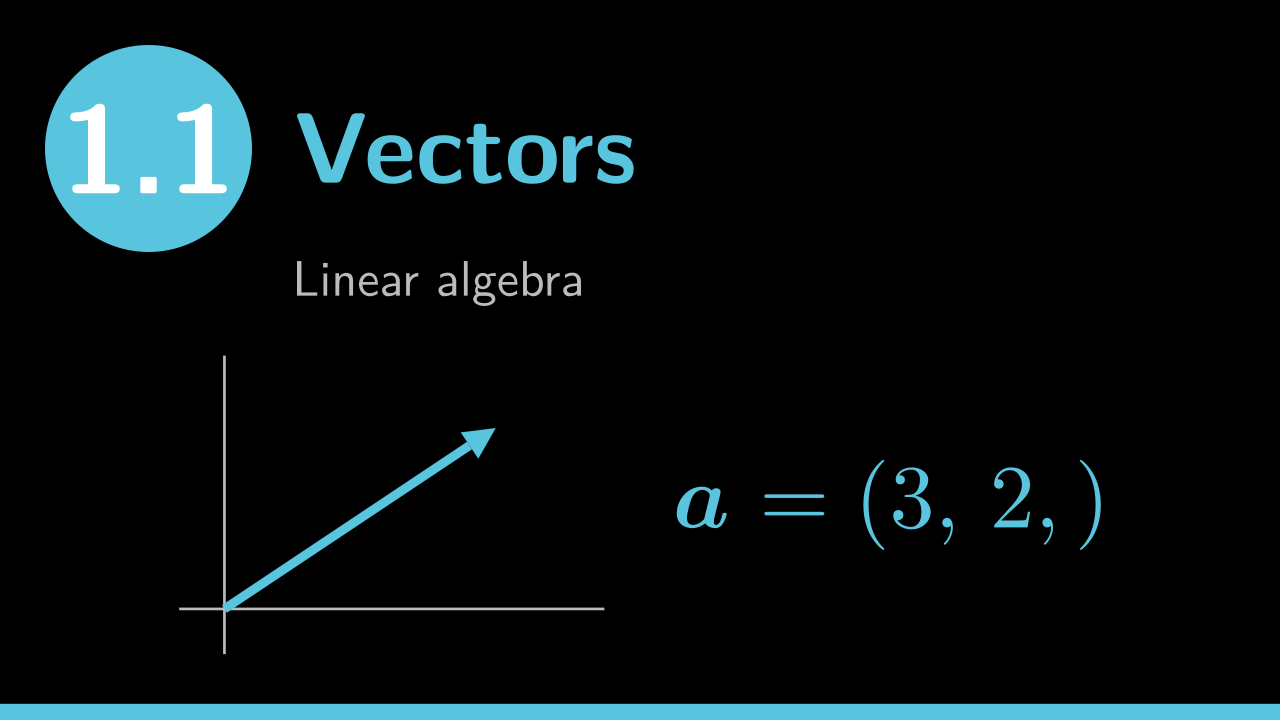
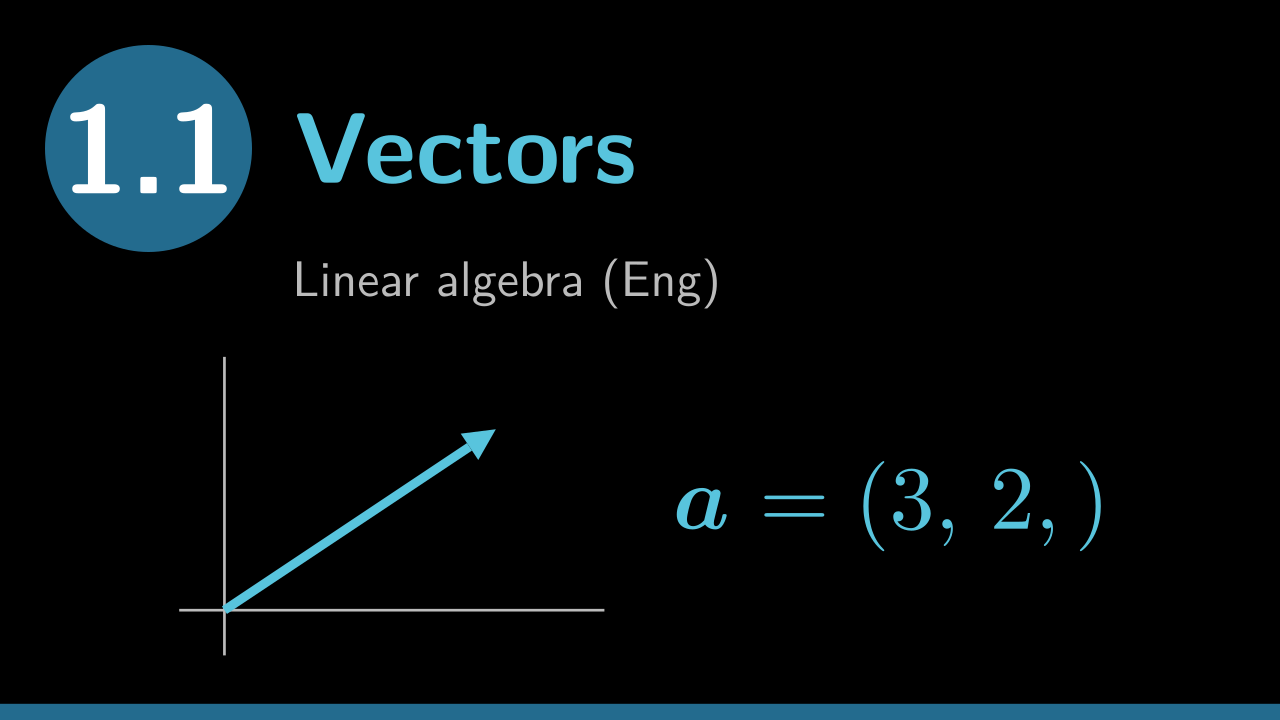
Miniaturas con el idioma de un vistazo; descartes a descartes/; limpieza
- Miniaturas: en español disco claro con número oscuro, en inglés disco y franja
  BLUE_E con número blanco, y «(Esp)»/«(Eng)» tras el nombre de la asignatura.
  Las 24 regeneradas y las 19 publicadas puestas en YouTube.
- ZZ_Basura_*.org movidos a descartes/ y menciones actualizadas.
- CLAUDE.md: deduplicación de las cachés de voz repetida el 2026-11-05.

Claude-Session: https://claude.ai/code/session_01PdGgPEm6oxM5YWAzx29SLa

diff --git a/lib/miniatura.py b/lib/miniatura.py
@@ -1,12 +1,15 @@
 """Miniaturas de YouTube de la serie (1280x720, png), plantilla elegida por Marcos el 2026-11-03.
 
 Composición (variante F de los prototipos; `Comprobaciones.org`, pasada 6, punto 7):
-  - disco azul con el número «1.N» arriba a la izquierda;
+  - disco con el número «1.N» arriba a la izquierda;
   - título corto (dos a cuatro palabras, una o dos líneas) a su derecha, con tamaño de letra fijo;
-  - «Álgebra lineal» / «Linear algebra» en pequeño bajo el título (nunca abajo a la derecha: ahí pone
-    YouTube la duración);
+  - «Álgebra lineal (Esp)» / «Linear algebra (Eng)» en pequeño bajo el título (nunca abajo a la derecha:
+    ahí pone YouTube la duración);
   - el dibujo del vídeo centrado debajo, con los colores de la serie;
-  - franja azul al pie.
+  - franja al pie.
+El idioma se distingue de un vistazo (Marcos, 2026-11-05): en español, disco claro (azul de la serie un 50 %
+hacia el blanco) con el número oscuro y franja del azul de la serie; en inglés, disco y franja BLUE_E con el
+número blanco. El título va siempre en el azul de la serie.
 El disco, el título y el rótulo están siempre en el mismo sitio; solo cambian el número, el texto y el dibujo.
 
 Generar (desde lib/, con el entorno virtual de manim):
@@ -49,6 +52,10 @@ FUENTE = "Latin Modern Sans"
 TAM_TITULO = 80          # tamaño fijo del título (todas iguales)
 ANCHO_TITULO = 10.2      # si un título no cabe, se reduce solo ese (aviso en la salida)
 COLOR_FILA, COLOR_COLUMNA = COLOR_ESCALAR, GREEN   # código de V10
+# Colores por idioma: (disco, número, franja)
+COLORES_IDIOMA = {"es": (interpolate_color(ManimColor(COLOR_TITULO), WHITE, 0.5), "#0B2530", COLOR_TITULO),
+                  "en": (BLUE_E, WHITE, BLUE_E)}
+ETIQUETA_IDIOMA = {"es": "(Esp)", "en": "(Eng)"}
 
 
 # ---------- piezas de dibujo ----------
@@ -226,9 +233,10 @@ class Miniatura(Scene):
         W, H = config.frame_width, config.frame_height
         self.camera.background_color = BLACK
 
-        franja = Rectangle(width=W, height=0.18, stroke_width=0, fill_color=COLOR_TITULO, fill_opacity=1).to_edge(DOWN, buff=0)
-        disco = Circle(radius=1.15, stroke_width=0, fill_color=COLOR_TITULO, fill_opacity=1)
-        num = Text(numero, font=FUENTE, weight=BOLD, font_size=100, color=WHITE)
+        c_disco, c_numero, c_franja = COLORES_IDIOMA[idioma]
+        franja = Rectangle(width=W, height=0.18, stroke_width=0, fill_color=c_franja, fill_opacity=1).to_edge(DOWN, buff=0)
+        disco = Circle(radius=1.15, stroke_width=0, fill_color=c_disco, fill_opacity=1)
+        num = Text(numero, font=FUENTE, weight=BOLD, font_size=100, color=c_numero)
         num.scale_to_fit_width(min(num.width, 1.85)).move_to(disco)
         sello = VGroup(disco, num).move_to([-W/2 + 0.5 + 1.15, H/2 - 0.5 - 1.15, 0])
 
@@ -241,7 +249,8 @@ class Miniatura(Scene):
             titulo.scale_to_fit_width(ANCHO_TITULO)
         # dos líneas caben en el alto del disco; una sola se centra con él
         titulo.move_to([izquierda + titulo.width/2, sello.get_y(), 0])
-        rotulo = Text("Álgebra lineal" if idioma == "es" else "Linear algebra", font=FUENTE, font_size=40, color=GREY_B)
+        rotulo = Text(("Álgebra lineal " if idioma == "es" else "Linear algebra ") + ETIQUETA_IDIOMA[idioma],
+                      font=FUENTE, font_size=40, color=GREY_B)
         rotulo.move_to([izquierda + rotulo.width/2, sello.get_bottom()[1] - 0.35, 0])
 
         dibujo = MOTIVOS[clave](idioma)

diff --git a/CLAUDE.md b/CLAUDE.md
@@ -216,7 +216,7 @@ Escribir las frases nuevas ya en la forma buena.
   idioma para 1.250 mp3), y tras un injerto queda además la toma sobrante con el mismo texto: la «buena» es la
   **primera en orden** con ese texto, nunca la más reciente. **Deduplicadas el 2026-11-03** con
   `tmp/dedup_cache.py CACHE --escribe` (es 7.015 → 1.268 entradas, 33 → 5,6 MB; en 7.575 → 1.259, 34 → 4,9 MB;
-  copias en `tmp/cache_{es,en}_antes_dedup.json`): conserva la primera entrada de cada `input_data` (la que gana
+  copias en `tmp/cache_{es,en}_antes_dedup.json`, borradas el 2026-11-05; **repetida el 2026-11-05**: es 1.791 → 1.386, en 1.827 → 1.398, copias junto a cada caché en `cache.json.antes_dedup_20261105`): conserva la primera entrada de cada `input_data` (la que gana
   la búsqueda) y la primera de cada mp3, comprueba que ninguna búsqueda cambia y que todo mp3 sigue con entrada.
   Repetirlo cuando la caché vuelva a crecer (sin renders en marcha); una prueba de render no debe crear mp3.
 - **Una marca al principio del texto se dispara al final.** manim-voiceover
@@ -479,7 +479,7 @@ Escribir las frases nuevas ya en la forma buena.
   corto de la ficha (`titulo_miniatura`), «Álgebra lineal» debajo y un dibujo del vídeo (`MOTIVOS`):
   `cd lib && ~/.venvs/manim/bin/python miniatura.py L01_V12`. La ficha la cita con `miniatura = "..."` en
   cada idioma y `subir`/`actualizar` la envían; `subir_youtube.py miniatura ID FICHERO.png` pone solo la
-  miniatura (V01-V04, sin ficha). Para un vídeo nuevo: añadir su motivo, generar y mirar a 320 px de ancho.
+  miniatura (V01-V04, sin ficha). Para un vídeo nuevo: añadir su motivo, generar y mirar a 320 px de ancho. Idioma de un vistazo (Marcos, 2026-11-05): en español disco claro con número oscuro, en inglés disco y franja `BLUE_E` con número blanco, y «(Esp)» / «(Eng)» tras el nombre de la asignatura (`COLORES_IDIOMA`, `ETIQUETA_IDIOMA`); las 24 regeneradas y las 19 de los vídeos ya subidos (V01-V09 es/en, V10 es) puestas en YouTube ese día con `subir_youtube.py miniatura` (50 unidades de cuota cada una).
 
 ## Reglas
 
@@ -503,7 +503,7 @@ Escribir las frases nuevas ya en la forma buena.
   al acabar los vídeos de la lección 1.
 - No hacer commit ni push sin que Marcos lo pida. Los `.mp4`, `media/`,
   `tmp/` y `music/` están ignorados y así deben seguir.
-- Los descartes se guardan en `ZZ_Basura_*.org`, no se borran.
+- Los descartes se guardan en `descartes/ZZ_Basura_*.org`, no se borran.
 - Español primero para la revisión pedagógica; el inglés se genera del
   mismo org (objetivo: una sola fuente bilingüe).
 
@@ -589,7 +589,7 @@ Al publicar un vídeo, actualizar esta tabla.
   ejemplos (posición; listas distintas = orden; igualdad como consecuencia), notación (corchetes,
   matriz columna como (3)≠(3,), mayúsculas, matriz nula) y componentes (a_ij y el selector; sin `elem`).
   Prueba gTTS 480p: `L01_V09_MatricesFilasYColumnas_prueba480p.mp4`, guion en
-  `tmp/guion_V09_es.txt`. La versión 1 y el apéndice de R⁰ están en `ZZ_Basura_L01_V09.org`. En inglés,
+  `tmp/guion_V09_es.txt`. La versión 1 y el apéndice de R⁰ están en `descartes/ZZ_Basura_L01_V09.org`. En inglés,
   "orden" = *order* (Marcos). **Azure es 480p el 2026-10-18**: `L01_V09_MatricesFilasYColumnas_azure480p.mp4`
   (5:01); dos tomas repetidas con `v2` (una cortada por Azure a media frase, otra con 620 ms antes de
   "orden"). Inglés con Azure (Ollie) 480p el mismo día: `../videoMath2/L01_V09_MatricesRowsAndColumns_azure480p.mp4` (4:53); "...denotes a matrix." salía cortada por Azure en todas las tiradas: en plural ("Parentheses ... denote", "square brackets ... denote a matrix") sale entera. **Aprobado por Marcos en los dos idiomas y HD el 2026-10-18** (`L01_V09_MatricesFilasYColumnas.mp4`, 4:55, y `../videoMath2/L01_V09_MatricesRowsAndColumns.mp4`, 4:54, con sus srt); ficha `fichas/L01_V09.toml`. 2026-10-19: cabeceras añadidas a las escenas 2, 3 y 6 («Ejemplos», «El orden de una matriz», «Componentes, filas y columnas») y HD rehecho sin sintetizar. **Cuarta versión, 2026-11-02** (Marcos vio V09 y V10 seguidos: la escena de
@@ -599,13 +599,13 @@ Al publicar un vídeo, actualizar esta tabla.
   está a la vez...», «El siete, por ejemplo, es componente de dos vectores distintos...», «Por eso podemos
   escribir el selector a ambos lados de la matriz, sin paréntesis») y, al final, lo habitual (a_21) frente al
   selector; escena 8 resumen con la línea «da igual el orden de selección» y anuncio solo de la
-  transposición. La escena 6 anterior está en `ZZ_Basura_L01_V09.org`. Las frases movidas sin cambios
+  transposición. La escena 6 anterior está en `descartes/ZZ_Basura_L01_V09.org`. Las frases movidas sin cambios
   conservan sus tomas de Azure (la caché es común a todos los vídeos). Falta: revisión de Marcos de la prueba
   gTTS, Azure, HD, capítulos de la ficha; la subida del 5 de noviembre depende de ese repaso.
   **Quinta versión, 2026-11-03 (partición)**: V09 queda como «Matrices» (título nuevo, también en la portada):
   escenas 1-5 sin cambios y resumen (escena 6, `L01_V09_E06_Resumen`) con la definición y el orden y el
   anuncio «En el próximo vídeo veremos la selección de filas, columnas y componentes de una matriz.». Las
-  escenas 6-7 y la tabla del selector del resumen pasaron a V10 (nota en `ZZ_Basura_L01_V09.org`). HD es/en
+  escenas 6-7 y la tabla del selector del resumen pasaron a V10 (nota en `descartes/ZZ_Basura_L01_V09.org`). HD es/en
   y capítulos hechos; falta que Marcos escuche el resumen nuevo y su último repaso.
 - V10 (`L01-V10-Seleccion.org`, Secciones 1.4.3-1.4.4; inglés `L01_V10_Selection`; desde el 2026-11-03):
   «Selección de filas, columnas y componentes». Escena 1 = antigua escena 6 de V09 con el título y el
@@ -622,7 +622,7 @@ Al publicar un vídeo, actualizar esta tabla.
   escalar a la derecha y las reglas con escalares van a V14; la notación como programa, a X03. Primer uso del
   rótulo `aviso("idea")` (ahora en V10, escena 2). HD es/en y ficha el 2026-11-02 (4:25 es, 4:28 en).
   **Reducido a la transposición el 2026-11-02**: las escenas 1-2 (enlace y «primero la fila o primero la
-  columna») pasaron a V09 (código guardado en `ZZ_Basura_L01_V11.org`, antes `_V10`); queda arranque + transposición,
+  columna») pasaron a V09 (código guardado en `descartes/ZZ_Basura_L01_V11.org`, antes `_V10`); queda arranque + transposición,
   cambio de índices (recuerda de V09 que da igual el orden de selección), (Aᵀ)ᵀ = A y resumen de dos líneas.
   Título «La transposición» / «Transposition». Español aprobado con Azure y HD el 2026-11-02/03. Tras la
   partición (2026-11-03): ficheros, clases y montajes renombrados a `L01_V11_*`, ficha `fichas/L01_V11.toml`
@@ -656,7 +656,7 @@ Al publicar un vídeo, actualizar esta tabla.
   fichero; (4) corregir primero el español (con `PendientesDesdeLosVideos.org`) y traducir después.
 - **Vídeos de ampliación (serie X)**: lo más abstracto va en vídeos cortos aparte (`L01 X01`...),
   marcados como opcionales y más difíciles; plan y convenios en `NotacionNacal.org`. X01 = el apéndice
-  de R⁰ que salió de V09. La frase final de V09 que lo anunciaba se quitó (2026-10-18, a `ZZ_Basura_L01_V09.org`); se decide al tener X01.
+  de R⁰ que salió de V09. La frase final de V09 que lo anunciaba se quitó (2026-10-18, a `descartes/ZZ_Basura_L01_V09.org`); se decide al tener X01.
 - V12 (`L01-V12-TiposDeMatrices.org`, Sección 1.4.6; inglés `L01_V12_TypesOfMatrices`; era V11 hasta el
   2026-11-03): «Tipos de
   matrices» (no «matrices especiales»: da nombre a las matrices por sus características). Reparto del
